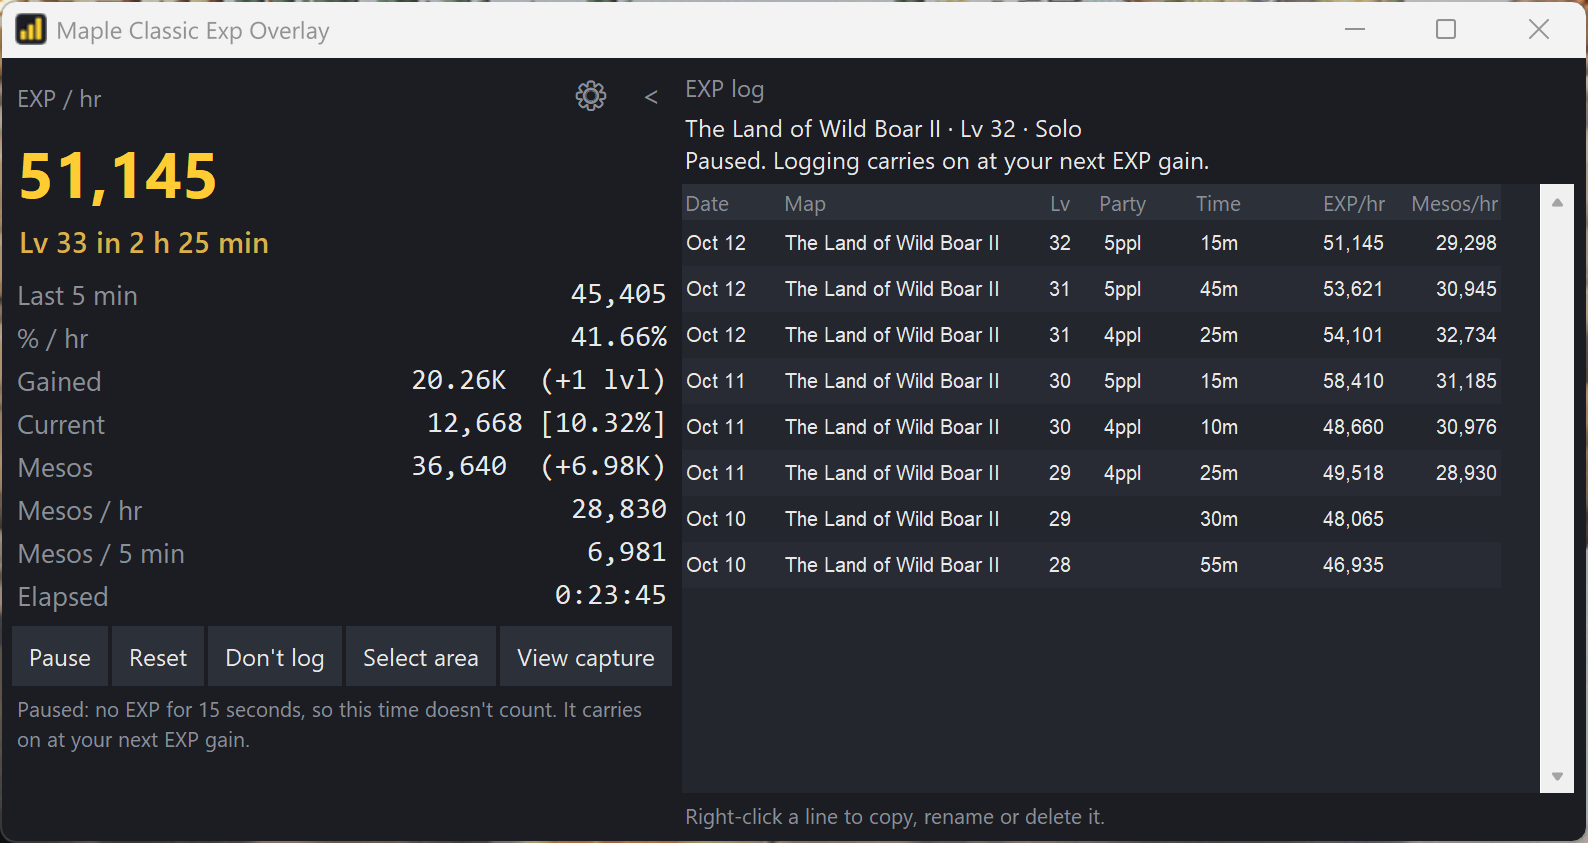
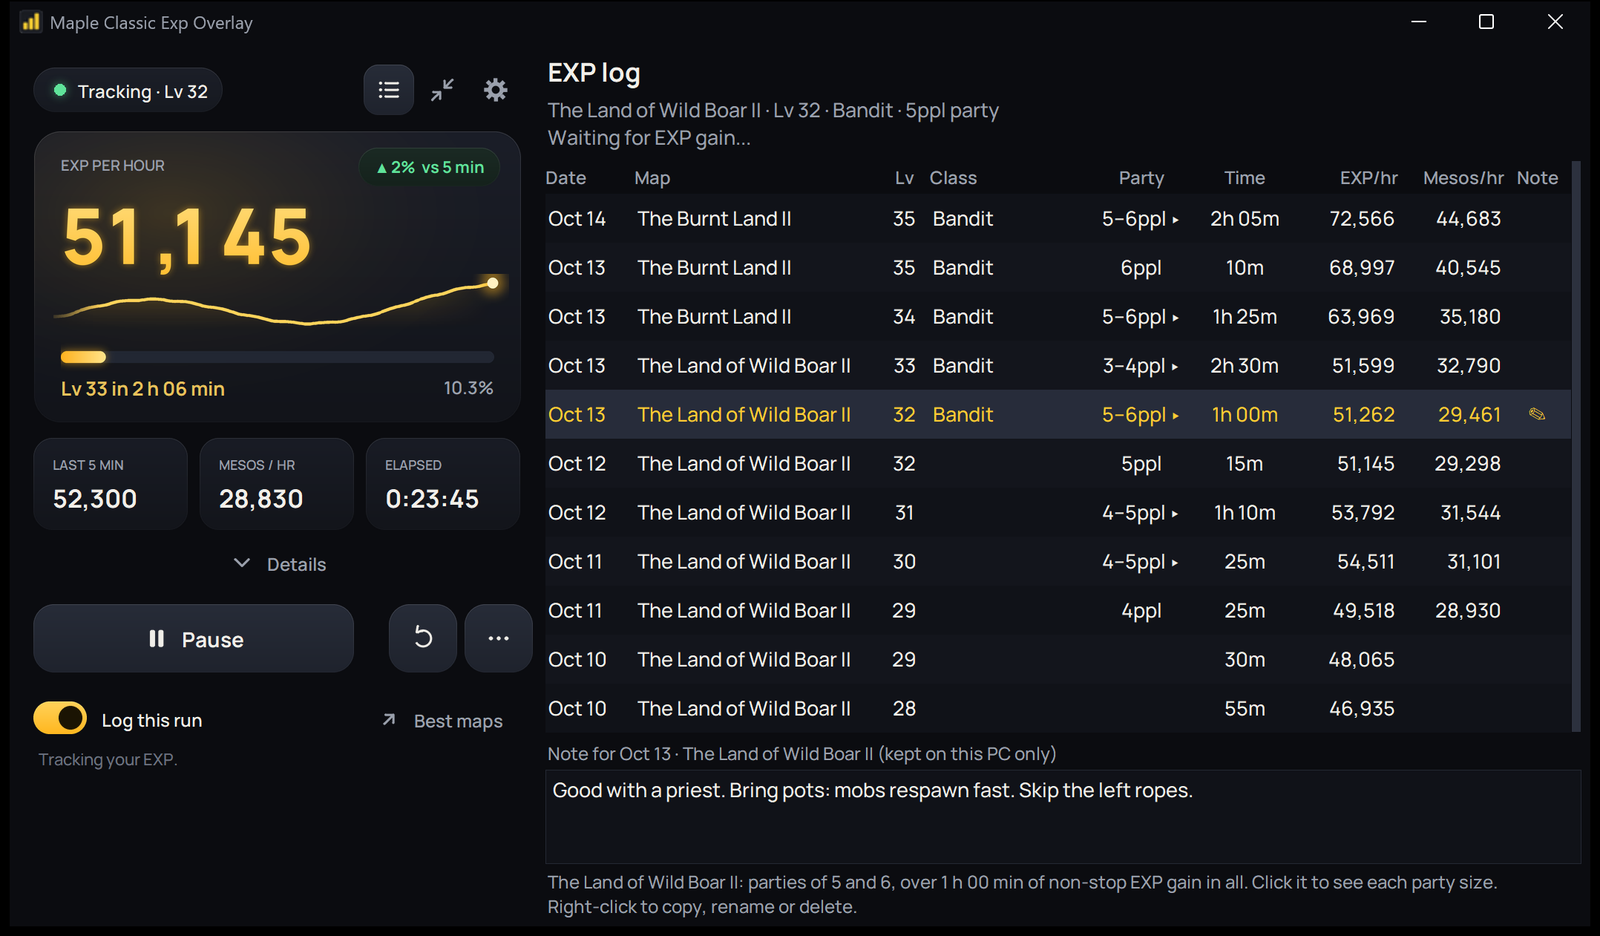
New-look screenshots and README; the old pages.dev page now sends people to mcwo.app

diff --git a/server/public/app.js b/server/public/app.js
@@ -1,5 +1,17 @@
 // The page's script: the class picker, the best-maps chart, the latest-runs bar and a little motion.
 // (Its own file so the site can tell browsers to run no other scripts: see _headers.)
+
+// The site's old address sends people to the new one, keeping their choices (level, class...). Only the page is
+// moved: the old /api/ address keeps answering for overlays from before the move. Only the exact old host, so
+// preview deployments and a local test server are left alone.
+const OLD_HOST = "maple-classic-exp-overlay.pages.dev", NEW_SITE = "https://mcwo.app";
+function movedTo(loc) {
+  return loc.hostname === OLD_HOST ? NEW_SITE + loc.pathname + loc.search + loc.hash : null;
+}
+if (typeof location !== "undefined" && movedTo(location)) {
+  location.replace(movedTo(location));
+  throw new Error("moved to " + NEW_SITE);          // (stops this script: the page is being replaced)
+}
 const $ = (id) => document.getElementById(id);
 const fmt = (n) => (n === null || n === undefined) ? "?" : Math.round(n).toLocaleString("en-US");
 const short = (n) => n >= 1e6 ? (n / 1e6).toFixed(2) + "M" : n >= 1e5 ? Math.round(n / 1e3) + "k"

diff --git a/README.md b/README.md
@@ -51,17 +51,18 @@ You need Windows 10 or 11. It takes about 2 minutes, and you don't need to insta
 
 Within a few seconds it shows your level and how much EXP you have. The per-hour numbers fill in once you've gained a little EXP.
 
-| Button | What it does |
+| Control | What it does |
 |---|---|
+| **Status pill** (top left) | Says what it's doing: tracking, paused, or what's wrong (for example it can't find the EXP bar) |
 | **Start / Pause / Resume** | Starts tracking. **Pause** stops it until you press **Resume**. |
-| **Reset** | Starts a new session from zero, and looks for the minimap, inventory and party list again (handy after moving them around) |
-| **Don't log** | Keeps the current run out of the log, for example while you're testing a map or waiting for your party. Everything is still shown on screen. It turns itself off when you leave the map or stop getting EXP, so your next run is logged as usual. |
-| **Select area** | Lets you drag a box around the EXP numbers, if it ever can't find them. The button then turns into **Follow game**, which goes back to finding them by itself. |
-| **View capture** | Shows exactly what it read from your screen |
+| **Reset** (the round arrow) | Starts a new session from zero, and looks for the minimap, inventory and party list again (handy after moving them around) |
+| **Log this run** (switch) | Turn it off to keep the current run out of the log, for example while you're testing a map or waiting for your party. Everything is still shown on screen. It turns itself back on when you leave the map or stop getting EXP, so your next run is logged as usual. |
+| **Details** | Shows or hides the extra numbers (gained, current, mesos, elapsed) |
+| **...** (More) | **Select area** lets you drag a box around the EXP numbers, if it ever can't find them (it then turns into **Follow game**, which goes back to finding them by itself). **View capture** shows exactly what it read from your screen. |
 | **Best maps** | Opens the [best-maps website](#best-maps-for-your-class), already showing maps for your level, party size and class |
-| **⚙** | Settings |
-| **>** | Opens the log |
-| **Compact** | A much smaller window with just EXP/hr, when you'll level, the last 5 minutes, mesos/hr and Start/Pause. The button then says **Full**, to bring everything back. Shift+4 or double-clicking the big number does the same. |
+| **Log icon** | Opens and closes the log |
+| **Compact icon** | A much smaller window with just EXP/hr, when you'll level, the last 5 minutes, **mesos/hr** and Start/Pause, in the same window size. Click it again to bring everything back. Shift+4 or double-clicking the big number does the same. |
+| **Gear icon** | Settings |
 
 ## Hotkeys
 
@@ -71,14 +72,14 @@ They work while MapleStory (or the overlay) is the window in front, so you don't
 |---|---|
 | **Shift+1** | Start / Pause |
 | **Shift+2** | Reset |
-| **Shift+3** | Don't log |
+| **Shift+3** | Log this run on / off |
 | **Shift+4** | Compact / Full |
 
-The status line says what happened, for example "Shift+1: paused." While the hotkeys are on, those keys go to the overlay only, so Shift+1 won't type **!** in the game's chat. If that gets in your way, change them (or turn them off) in ⚙: click one, then press the keys you want. Backspace turns one off.
+The status line says what happened, for example "Shift+1: paused." While the hotkeys are on, those keys go to the overlay only, so Shift+1 won't type **!** in the game's chat. If that gets in your way, change them (or turn them off) in ⚙: click one, then press the keys you want (click it again, or press Esc, to cancel). Backspace turns one off.
 
 ## The log
 
-Click **>** at the top right of the overlay to open the log. It's the table on the right in the close-up picture above.
+Click the **log icon** (top left, next to the status pill) to open the log. It's the table on the right in the close-up picture above.
 
 - **After 5 minutes of non-stop farming**, it adds a line for that map, your level and your party size.
 - **Every 5 more minutes** it updates that line, so the numbers get more accurate the longer you farm.
@@ -87,7 +88,7 @@ Click **>** at the top right of the overlay to open the log. It's the table on t
 - **15-minute runs:** under the log it also counts toward 15 minutes of non-stop farming on one map with the same party size ("15-min run: 7 of 15 min"). A level-up doesn't stop it; a break, a new map or a new party size starts it over. Finished runs are saved separately and, if you said yes, shared with the [best-maps site](#best-maps-for-your-class).
 - **Greyed-out lines** were changed outside the overlay. Every line the overlay writes is sealed, so a line edited or added by hand is easy to spot, and it won't count toward the best-maps site. Deleting a line, or renaming a map in the overlay, is fine.
 - **Taking a break restarts the 5-minute timer.** A break means no EXP for 15 seconds (you can change this in ⚙). Changing maps or party size restarts it too.
-- **Don't want a run logged?** Press **Don't log**. It switches back on its own when that run ends.
+- **Don't want a run logged?** Turn off **Log this run**. It switches back on its own when that run ends.
 - **Solo** means just you. **4ppl** means a party of 4.
 - **?** under Mesos/hr means your inventory wasn't open.
 - **Right-click a line** to:
@@ -116,12 +117,16 @@ Click **>** at the top right of the overlay to open the log. It's the table on t
 **[mcwo.app](https://mcwo.app)** shows which maps give the most EXP/hr and mesos/hr for your class and level, solo or in a party, from real hours farmed by players. Click **Best maps** at the top of the overlay to open it, already filled in for you.
 
 - **Enter your level and whether you're solo or in a party, then pick your class and path.** Paths are named after their 4th job, like Night Lord or Bishop, and include the jobs before it (Shadower is Bandits, Chief Bandits and Shadowers). Under Lv 30 you're still 1st job, so Path is greyed out and you see what every player of your class gets.
-- **Around your level** means within 5 levels either way, and parties of any size count together, so maps fill in sooner.
+- **Around your level** starts at 3 levels either way. If a map doesn't have enough players that close, it widens to 5, then 8 levels, and the row says so ("wider range"). Parties of any size count together.
+- **Each map shows** its EXP/hr and mesos/hr, how many players and hours of farming it's based on, and about how long a level takes there (**% of a level per hour**). The dots on each line are players' typical runs, coloured by how their level compares to yours.
+- **Sort and filter** the list, open **Details** on a map (solo vs party, EXP/hr by level, the trend lately), or switch to the **Leveling ladder** to see which maps to use as you level. **Copy link** shares exactly what you're looking at.
+
+![The best-maps website, with a map's details open](docs/screenshot-site.png)
 
 - **It's built from 15-minute runs:** 15 minutes of non-stop farming on one map with the same party size. The log shows your progress ("15-min run: 7 of 15 min").
 - **Sharing is your choice.** The first time you start the overlay, it asks whether to share your runs. You can change it any time in ⚙.
 - **What's shared:** the map, your level, class and party size, the EXP and mesos you got, and a random ID for your copy of the overlay. Never your character's name.
-- **Keeping it honest:** the site uses the typical (median) run, counts each player once, leaves out runs far from what other players get there, and only ranks a map once 3 different players have farmed it (before that, it's shown greyed out as early data). Every player's typical run is a dot on the chart, so anything odd is easy to spot.
+- **Keeping it honest:** the site uses the typical (median) run, counts each player once, leaves out runs far from what other players get there, a new player's runs only count after 24 hours and 4 runs, and a map is only ranked once 3 different players have farmed it (before that, it's shown greyed out as early data). Every player's typical run is a dot on the chart, so anything odd is easy to spot.
 
 ## How accurate is it?
 

diff --git a/CHANGELOG.md b/CHANGELOG.md
@@ -3,7 +3,7 @@
 ## 0.9.10-beta
 
 **New address**
-- The best-maps website is now at **mcwo.app** (the old address keeps working for now). The overlay's Best maps button and sharing use the new one.
+- The best-maps website is now at **mcwo.app** (opening the old maple-classic-exp-overlay.pages.dev page now sends you there; older overlays keep working on the old address for now). The overlay's Best maps button and sharing use the new one.
 
 **Cleaner map names**
 - A map's name is now put right against the game's own list of maps (from meowdb.com, thank you): OCR slips like "ist Accompaniment" for "1st Accompaniment" or "Boar Il" for "Boar II" become one map, in your log and on the best-maps site. A map that isn't on the list (an event map, a new map) is used as it was read.
